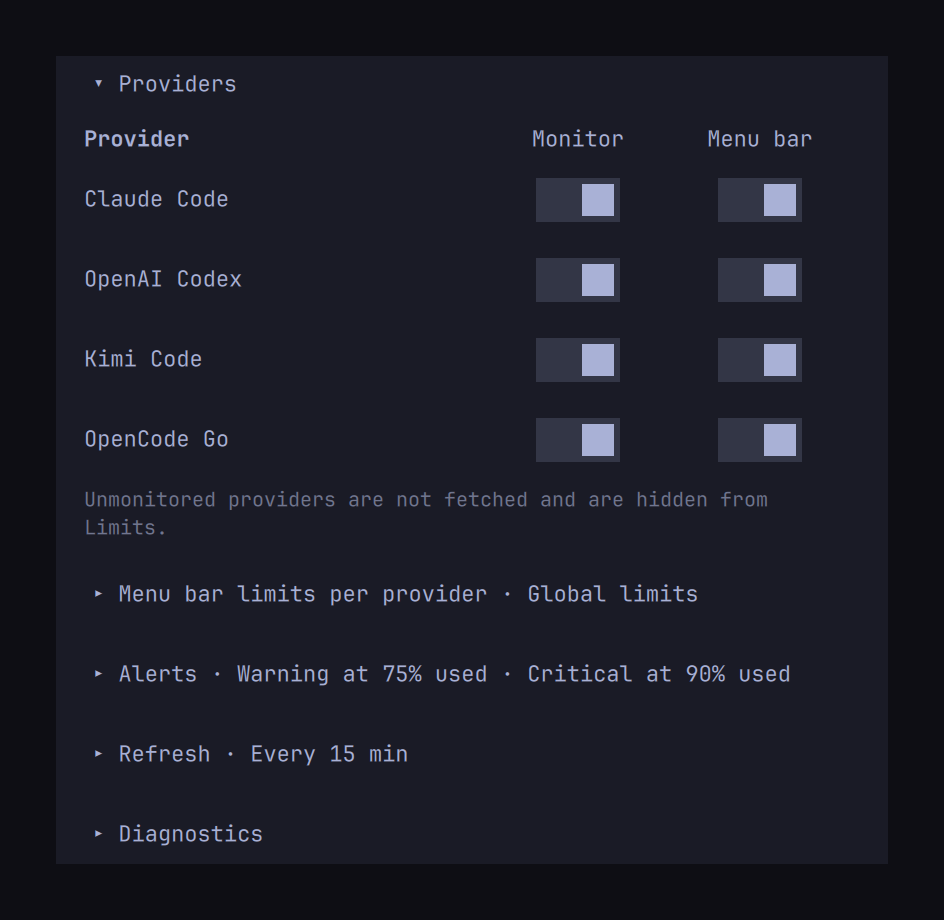
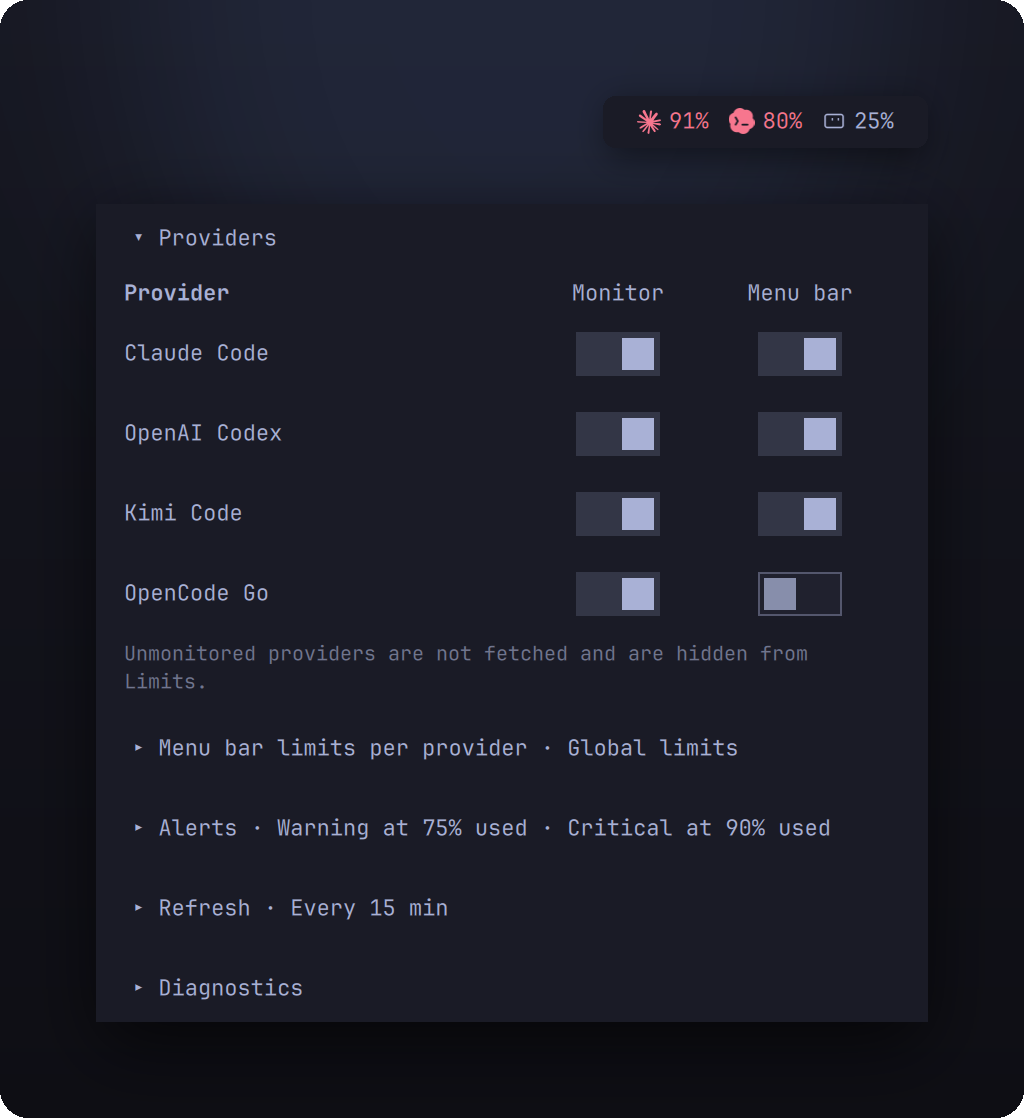
Redesign README and store images
One framed style for every image; a single menu bar image covering every chip option; accounts with the banked reset confirmation they open; the full Costs tab with its model breakdown beside cost sources and a custom price; theme names on the theme gallery.

diff --git a/README.md b/README.md
@@ -1,33 +1,65 @@
-# Quotatank
+<div align="center">
 
-[![CI](https://github.com/JanitorHead/omarchy-quotatank/actions/workflows/ci.yml/badge.svg)](https://github.com/JanitorHead/omarchy-quotatank/actions/workflows/ci.yml)
+# Quotatank
 
 **Your AI coding limits in the Omarchy menu bar, each with a pace tick and a run-out time.**
 
-Quotatank reads the plan limits of Claude Code, OpenAI Codex, Kimi Code, and OpenCode Go from the CLIs you already signed in with, or from every account behind a Fusebox or CLIProxyAPI server. A second tab estimates what your recorded tokens would cost at API rates. [Install](#install) takes one command.
+[![Release](https://img.shields.io/github/v/release/JanitorHead/omarchy-quotatank?label=release)](https://github.com/JanitorHead/omarchy-quotatank/releases) [![License: MIT](https://img.shields.io/github/license/JanitorHead/omarchy-quotatank)](LICENSE)
 
-![The Limits panel for Claude Code, opened from the menu bar chips, beside the Costs tab with a 30-day chart](https://raw.githubusercontent.com/JanitorHead/omarchy-quotatank/main/docs/screenshots/hero.png)
+[Install](#install) · [Limits and pace](#limits-and-pace) · [Accounts](#one-card-per-account) · [Menu bar](#menu-bar) · [Costs](#costs) · [Settings](#settings-and-privacy)
 
-<sub>Screenshots use fixture data. The theme is Tokyo Night unless noted.</sub>
+</div>
+
+![The Limits panel for Claude Code with three limit cards, beside the Costs tab with a 30-day chart, each opened from the same four menu bar chips](https://raw.githubusercontent.com/JanitorHead/omarchy-quotatank/main/docs/screenshots/hero.png)
+
+Quotatank reads the plan limits of Claude Code, OpenAI Codex, Kimi Code, and OpenCode Go from the CLIs you already signed in with, or from every account behind a Fusebox or CLIProxyAPI server. A second tab estimates what your recorded tokens would cost at API rates.
+
+<sub>Screenshots use fixture data in the Tokyo Night theme unless noted.</sub>
 
 ## What sets it apart
 
-- **A run-out time, not just a percentage.** Each limit card projects from your recent rate: `Runs out in 1h 9m` when the limit would empty before it resets, `Lasts until reset` when it would not. [See a limit card](#limits-and-pace).
+- **A run-out time, not just a percentage.** Each limit card projects from your recent rate: `Runs out in 1h 9m` when the limit would empty before it resets, `Lasts until reset` when it would not.
 - **A pace tick on the meter.** Once a card has enough recent samples, a tick marks where even use would put you by now. Use beyond the tick is shaded.
+- **Two limits and their reset times in each chip.** Stack a second limit under the first and show when each one resets.
 - **One card per account.** With Fusebox or CLIProxyAPI, each managed account gets its own card, with its own plan, percentage, and reset time.
-- **Two limits and their reset times in each chip.** Stack a second limit under the first and add when each one resets. [See the menu bar options](#menu-bar).
 - **Used or remaining.** Read cards and chips as percent used or percent left. Alert thresholds keep their meaning either way.
 - **Alerts that re-arm.** A desktop notification fires when a limit crosses your warning or critical threshold, and again after it recovers or resets.
-- **API cost estimates by model.** Totals for 24 hours, 7 days, or 30 days from local Claude Code, Codex, and OpenCode history and up to four T3 Code servers. [See Costs](#costs).
+- **API cost estimates by model.** Totals for 24 hours, 7 days, or 30 days from local Claude Code, Codex, and OpenCode history and up to four T3 Code servers.
 - **Private by default.** Accounts appear as Account 1, Account 2, and so on. Keys and tokens stay in private files, never in widget settings.
+
+## Install
+
+```bash
+omarchy plugin add https://github.com/JanitorHead/omarchy-quotatank.git --enable
+```
+
+Then [connect a source](#connect-a-source). To update or remove:
+
+```bash
+omarchy plugin update janitorhead.quotatank
+omarchy plugin remove janitorhead.quotatank
+```
+
+The built-in `omarchy.agents` widget can run alongside Quotatank. To keep only Quotatank, run `omarchy plugin disable omarchy.agents`.
+
+<details>
+<summary>Requirements</summary>
+
+- Omarchy with schema-v1 shell plugins.
+- Python 3.10 or newer. The quota and cost backends use only the standard library.
+- Network access for quota checks. Costs can download the public LiteLLM price table and contact the T3 servers you configure.
+- Optional: Python `websockets` 15 or newer, for live account activity from Fusebox.
+
+</details>
 
 ## Limits and pace
 
 ![A 5-hour limit card with labels for usage so far, the pace tick, use ahead of pace, the reset countdown, and the projection](https://raw.githubusercontent.com/JanitorHead/omarchy-quotatank/main/docs/screenshots/card-anatomy.png)
 
-One limit card: the tick shows where even use would be by now, and the red line says the limit runs out before it resets.
+The tick marks where even use would be by now, so blocks past it are use ahead of pace. The status line projects from the recent rate, which weighs the newest samples most (a two-hour half-life), so use from days earlier does not count. Here the limit runs out in 1h 9m, before its window resets in 2h 4m.
 
-The status line projects from the recent rate, which weighs the newest samples most (a two-hour half-life), so use from days earlier does not count.
+<details>
+<summary>Every status line</summary>
 
 | Status line | Meaning |
 |---|---|
@@ -41,52 +73,44 @@ The status line projects from the recent rate, which weighs the newest samples m
 | `Limit reached` | The limit is 100% used |
 | `not reported` | The provider reports no window length or reset time, so there is no pace |
 
-![The same three limits shown as percent used on the left and percent left on the right](https://raw.githubusercontent.com/JanitorHead/omarchy-quotatank/main/docs/screenshots/used-remaining.png)
+</details>
 
-The same three limits under **Show limits as**: Used on the left, Remaining on the right.
+![The same three limit cards read as percent used on the left and as percent left on the right](https://raw.githubusercontent.com/JanitorHead/omarchy-quotatank/main/docs/screenshots/used-remaining.png)
 
-The meter, the tick, and the expected share all follow the setting. Warning and critical thresholds are stored as percent left, 25% and 10% by default, so the Opus limit is critical at 9% left whichever way you read it.
+**Show limits as** flips every card and chip between percent used and percent left. The meter, the tick, and the expected share follow the setting. Warning and critical thresholds are stored as percent left, 25% and 10% by default, so the Opus limit is critical at 9% left whichever way you read it.
 
 **Alerts.** With **Notify when limits run low** on, a desktop notification fires once when a limit moves into warning or critical; critical alerts use critical urgency. When the limit recovers or its window resets, the next crossing notifies again.
 
-| One card per account | Applying a banked reset |
-|---|---|
-| ![Three OpenAI Codex accounts from CLIProxyAPI, each on its own card with plan, weekly limit, reset time, and banked resets](https://raw.githubusercontent.com/JanitorHead/omarchy-quotatank/main/docs/screenshots/accounts.png) | ![The banked reset confirmation: two available resets, the one expiring soonest selected, with Cancel and Apply reset](https://raw.githubusercontent.com/JanitorHead/omarchy-quotatank/main/docs/screenshots/reset-confirmation.png) |
+## One card per account
+
+![Three OpenAI Codex accounts from CLIProxyAPI, each on its own card with plan, weekly limit, reset time, and banked resets; an arrow leads from the first account's 2 banked resets badge to the confirmation it opens](https://raw.githubusercontent.com/JanitorHead/omarchy-quotatank/main/docs/screenshots/accounts.png)
 
 With Fusebox or CLIProxyAPI as the quota source, every managed account gets its own card with its own plan, percentage, and reset time. Each card shows the account's weekly limit when it reports one; **Additional limits** opens the others.
 
-In CLIProxyAPI mode, Codex cards show how many banked resets the account holds. A banked reset resets that account's current Codex usage limits, and it is spent once applied, so clicking a nonzero badge opens a confirmation first. It lists each reset with its expiry, selects the one expiring soonest, and applies nothing until you choose **Apply reset**.
+In CLIProxyAPI mode, Codex cards show how many banked resets the account holds. A banked reset resets that account's current Codex usage limits and is spent once applied, so clicking a nonzero badge opens a confirmation first. It lists each reset with its expiry, selects the one expiring soonest, and applies nothing until you choose **Apply reset**.
 
 ## Menu bar
 
-| Setting | What each chip shows |
-|---|---|
-| **Menu bar limit**: Most constrained (default) | ![Chips showing each provider's most constrained limit](https://raw.githubusercontent.com/JanitorHead/omarchy-quotatank/main/docs/screenshots/bar-auto.png) |
-| **Menu bar limit**: 7-day | ![Chips pinned to the weekly limit, tagged 7d](https://raw.githubusercontent.com/JanitorHead/omarchy-quotatank/main/docs/screenshots/bar-weekly.png) |
-| **Menu bar limit (bottom)**: 7-day, under a 5-hour top | ![Chips with the 5-hour limit stacked over the weekly limit](https://raw.githubusercontent.com/JanitorHead/omarchy-quotatank/main/docs/screenshots/bar-stacked.png) |
-| **Show reset day in menu bar**: on | ![Stacked chips with a reset time on the 5-hour line and a reset date on the weekly line](https://raw.githubusercontent.com/JanitorHead/omarchy-quotatank/main/docs/screenshots/bar-resets.png) |
+![Five rows of the same four menu bar chips: most constrained, pinned to 7 days, two stacked limits, two limits with reset times and dates, and provider brand colors](https://raw.githubusercontent.com/JanitorHead/omarchy-quotatank/main/docs/screenshots/menu-bar.png)
 
-**Menu bar limit** picks the window every chip shows: most constrained, 5-hour, 7-day, or monthly. A pinned limit is tagged with its period. **Menu bar limit (bottom)** stacks a second limit under the first. **Show reset day in menu bar** appends when each line resets: a time for limits that reset within a day, a date for weekly and monthly ones. Both formats are configurable. The top and bottom limits can also be set for a single provider under **Menu bar limits per provider**.
+- **Menu bar limit** picks the window every chip shows. The default is each provider's most constrained limit; 5-hour, 7-day, and monthly pin one window and tag the chip with its period. A provider that does not report the pinned window shows its most constrained limit, tagged with that limit's own period.
+- **Menu bar limit (bottom)** stacks a second limit under the first.
+- **Show reset day in menu bar** appends when each line resets: a time for limits that reset within a day, a date for weekly and monthly ones. Both formats are configurable.
+- **Provider colors** paints each chip and limit meter in the provider's brand color.
 
-A chip switches to the Omarchy theme's alert color when either of its lines is at warning or critical. Quotatank has no red of its own: the color comes from the theme (its `red` entry by default), so it is red in the themes shown here and follows whatever color your theme uses. Clicking a chip opens that provider.
+The top and bottom limits can also be set for a single provider under **Menu bar limits per provider**. Clicking a chip opens that provider.
 
-| Omarchy theme colors (default) | Provider brand colors |
-|---|---|
-| ![Four menu bar chips in Tokyo Night; Claude Code and OpenAI Codex in the theme's alert color](https://raw.githubusercontent.com/JanitorHead/omarchy-quotatank/main/docs/screenshots/bar.png) | ![The same chips with provider brand colors](https://raw.githubusercontent.com/JanitorHead/omarchy-quotatank/main/docs/screenshots/bar-brand.png) |
+A chip switches to the Omarchy theme's alert color when either of its lines is at warning or critical, and keeps it with provider colors on, so a brand color never hides an alert. Quotatank has no red of its own: the color comes from the theme (its `red` entry by default), so it is red in the themes shown here and follows whatever color your theme uses.
 
-With **Provider colors** on, chips and limit meters take each provider's brand color. A line at warning or critical keeps the alert color, so the brand color never hides an alert.
+## Follows your theme
 
-![The Limits panel in the Gruvbox, Nord, Kanagawa, and Catppuccin Latte themes](https://raw.githubusercontent.com/JanitorHead/omarchy-quotatank/main/docs/screenshots/themes.png)
+![The top of the Limits panel and its menu bar chips in the Gruvbox, Nord, Kanagawa, and Catppuccin Latte themes](https://raw.githubusercontent.com/JanitorHead/omarchy-quotatank/main/docs/screenshots/themes.png)
 
-The panel follows the active Omarchy theme: Gruvbox, Nord, Kanagawa, and Catppuccin Latte.
-
-Cards are square by default; turn off **Square usage cards** to follow the theme's corners.
+Colors and control borders come from the active Omarchy theme and change with it; text uses your Omarchy font. Cards are square by default; turn off **Square usage cards** to follow the theme's corners.
 
 ## Costs
 
-| Model breakdown | Cost sources |
-|---|---|
-| ![The Costs model breakdown: six models with provider, token count, and estimated cost](https://raw.githubusercontent.com/JanitorHead/omarchy-quotatank/main/docs/screenshots/costs-models.png) | ![Costs settings with local history switches, two remote T3 servers, custom prices, and the last scan](https://raw.githubusercontent.com/JanitorHead/omarchy-quotatank/main/docs/screenshots/costs-t3-servers.png) |
+![The Costs tab with a 30-day chart, totals by provider, and the model breakdown, beside Costs settings with local history, two T3 servers, and a custom price for one model](https://raw.githubusercontent.com/JanitorHead/omarchy-quotatank/main/docs/screenshots/costs.png)
 
 Costs estimates what your recorded tokens would cost at API rates. It is not a bill, a subscription charge, or a credit balance. Pick 24 hours, 7 days, or 30 days, then open token details or the model breakdown, which lists every model with its provider, tokens, and estimate.
 
@@ -95,12 +119,13 @@ Local Claude Code and Codex history are on by default, OpenCode can be added, an
 ## Settings and privacy
 
 <p align="center">
-  <img src="https://raw.githubusercontent.com/JanitorHead/omarchy-quotatank/main/docs/screenshots/settings.png" width="472" alt="Limits settings: Monitor and Menu bar switches for each provider, then menu bar limits per provider, alerts, refresh, and diagnostics">
+  <img src="https://raw.githubusercontent.com/JanitorHead/omarchy-quotatank/main/docs/screenshots/settings.png" width="512" alt="Provider switches with OpenCode Go monitored but kept out of the menu bar, so the bar above shows three chips">
 </p>
 
-Each provider has two switches: **Monitor** fetches it and shows it in Limits, **Menu bar** shows its chip.
+Each provider has two switches: **Monitor** fetches it and shows it in Limits, **Menu bar** shows its chip. Here OpenCode Go stays in the panel and out of the bar. In Fusebox or CLIProxyAPI mode every discovered provider is monitored, and only the **Menu bar** column remains.
 
-A provider can be monitored without a chip, so it stays in the panel and out of the bar. In Fusebox or CLIProxyAPI mode every discovered provider is monitored, and only the **Menu bar** column remains.
+<details>
+<summary>Main settings</summary>
 
 | Setting | Default | What it controls |
 |---|---|---|
@@ -119,6 +144,8 @@ A provider can be monitored without a chip, so it stays in the panel and out of 
 
 Every key is listed in the [settings reference](https://github.com/JanitorHead/omarchy-quotatank/blob/main/docs/configuration.md#settings).
 
+</details>
+
 Privacy:
 
 - Quotatank reads existing CLI sign-ins and does not write authentication state. Quota checks are read-only.
@@ -126,28 +153,6 @@ Privacy:
 - Management keys and T3 tokens are saved in private files (`0600`, in a `0700` directory), never in widget settings or command-line arguments.
 - Cost history stores token counts, timestamps, model names, and hashed transcript identifiers. It never stores prompts, responses, or tool output.
 - HTTPS certificates are verified for the CLIProxyAPI server, and redirects are rejected.
-
-## Install
-
-```bash
-omarchy plugin add https://github.com/JanitorHead/omarchy-quotatank.git --enable
-```
-
-Then [connect a source](#connect-a-source). To update or remove:
-
-```bash
-omarchy plugin update janitorhead.quotatank
-omarchy plugin remove janitorhead.quotatank
-```
-
-The built-in `omarchy.agents` widget can run alongside Quotatank. To keep only Quotatank, run `omarchy plugin disable omarchy.agents`.
-
-Requirements:
-
-- Omarchy with schema-v1 shell plugins.
-- Python 3.10 or newer. The quota and cost backends use only the standard library.
-- Network access for quota checks. Costs can download the public LiteLLM price table and contact the T3 servers you configure.
-- Optional: Python `websockets` 15 or newer, for live account activity from Fusebox.
 
 ## Connect a source
 
@@ -177,7 +182,7 @@ When a provider's refresh fails, its chip shows a short reason instead of a figu
 
 The key is saved to a private file (`0600`) and is never loaded back into the form. Remote servers must allow remote management. Quota lookups cover Claude, Codex, Kimi, and Antigravity accounts; other providers show an unsupported notice.
 
-For CLIProxyAPI, an optional Keeper deployment adds last-used account activity to the menu bar. See the [Keeper deployment guide](https://github.com/JanitorHead/omarchy-quotatank/blob/main/docs/keeper-deployment.md).
+For CLIProxyAPI, the optional CPA Usage Keeper adds the last-used account to the menu bar. See the [account activity guide](https://github.com/JanitorHead/omarchy-quotatank/blob/main/docs/keeper-deployment.md).
 
 ### Cost history
 
